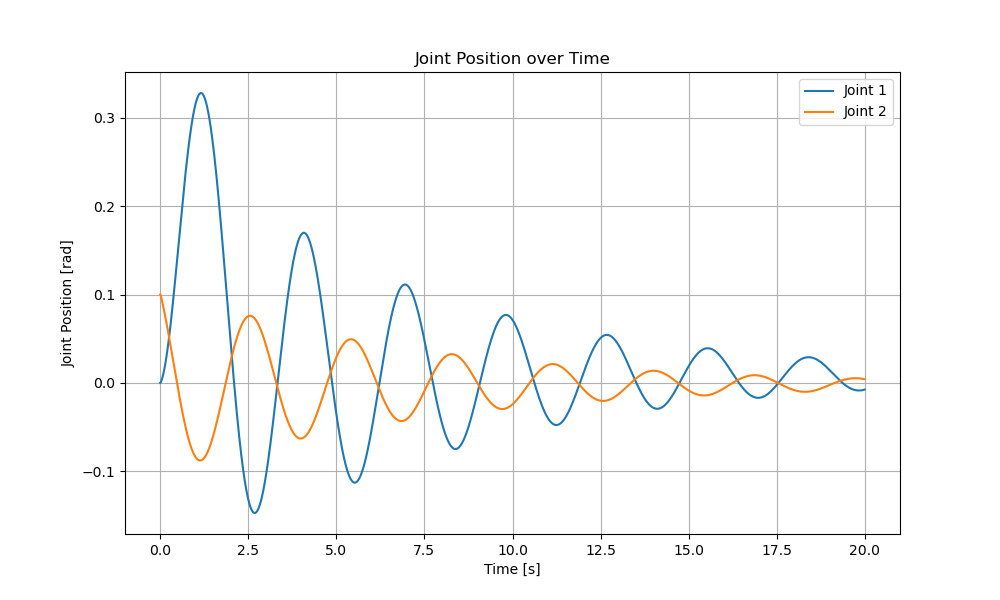
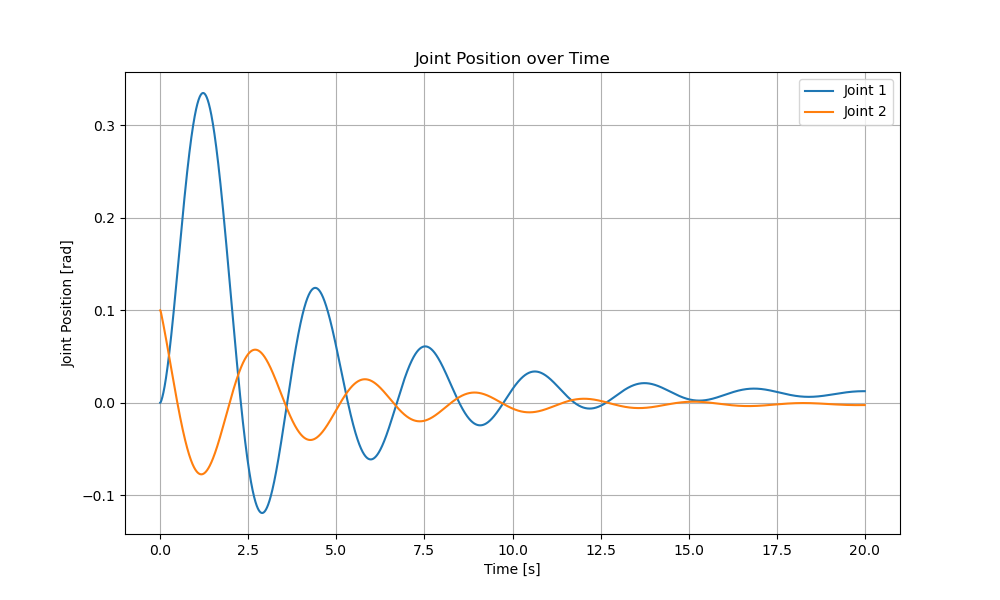
Small changes

diff --git a/inv_pendulum_control.py b/inv_pendulum_control.py
@@ -1,6 +1,11 @@
 import numpy as np
 from simulator import Simulator, ActuatorMotor
 from pathlib import Path
+import pinocchio as pin
+
+# Load the robot model from scene XML
+# model = pin.buildModelFromMJCF("robots/inverted_pendulum/inverted_pendulum.xml")
+# pin_data = model.createData()
 
 
 def controller(q: np.ndarray, dq: np.ndarray, t: float) -> np.ndarray:
@@ -15,9 +20,14 @@ def controller(q: np.ndarray, dq: np.ndarray, t: float) -> np.ndarray:
         tau: Joint torques command [Nm]
     """
     # Control gains tuned for UR5e
-    kp = np.array([2, 10])
+    kp = np.array([2, 12])
     kd = 2 * np.sqrt(kp)
-    
+
+    # M = pin_data.M
+    # print(M)
+    # nle = pin_data.nle
+    # print(nle)
+
     # Target joint configuration
     qdes = np.array([0.0, 0.0])
     
